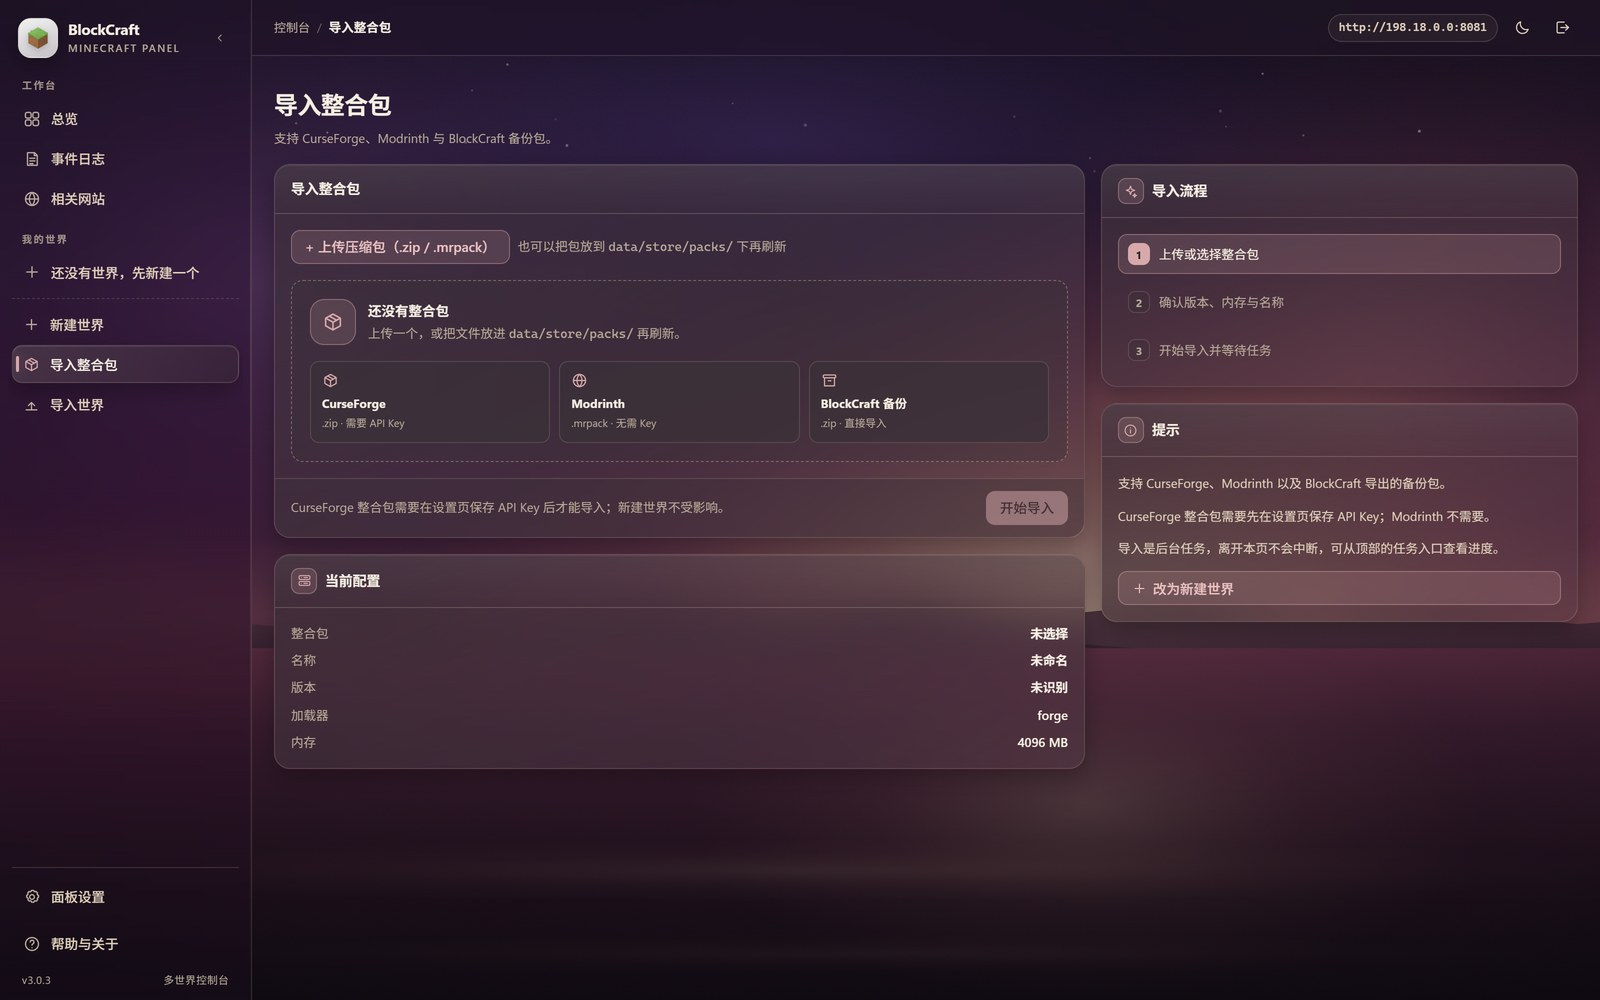
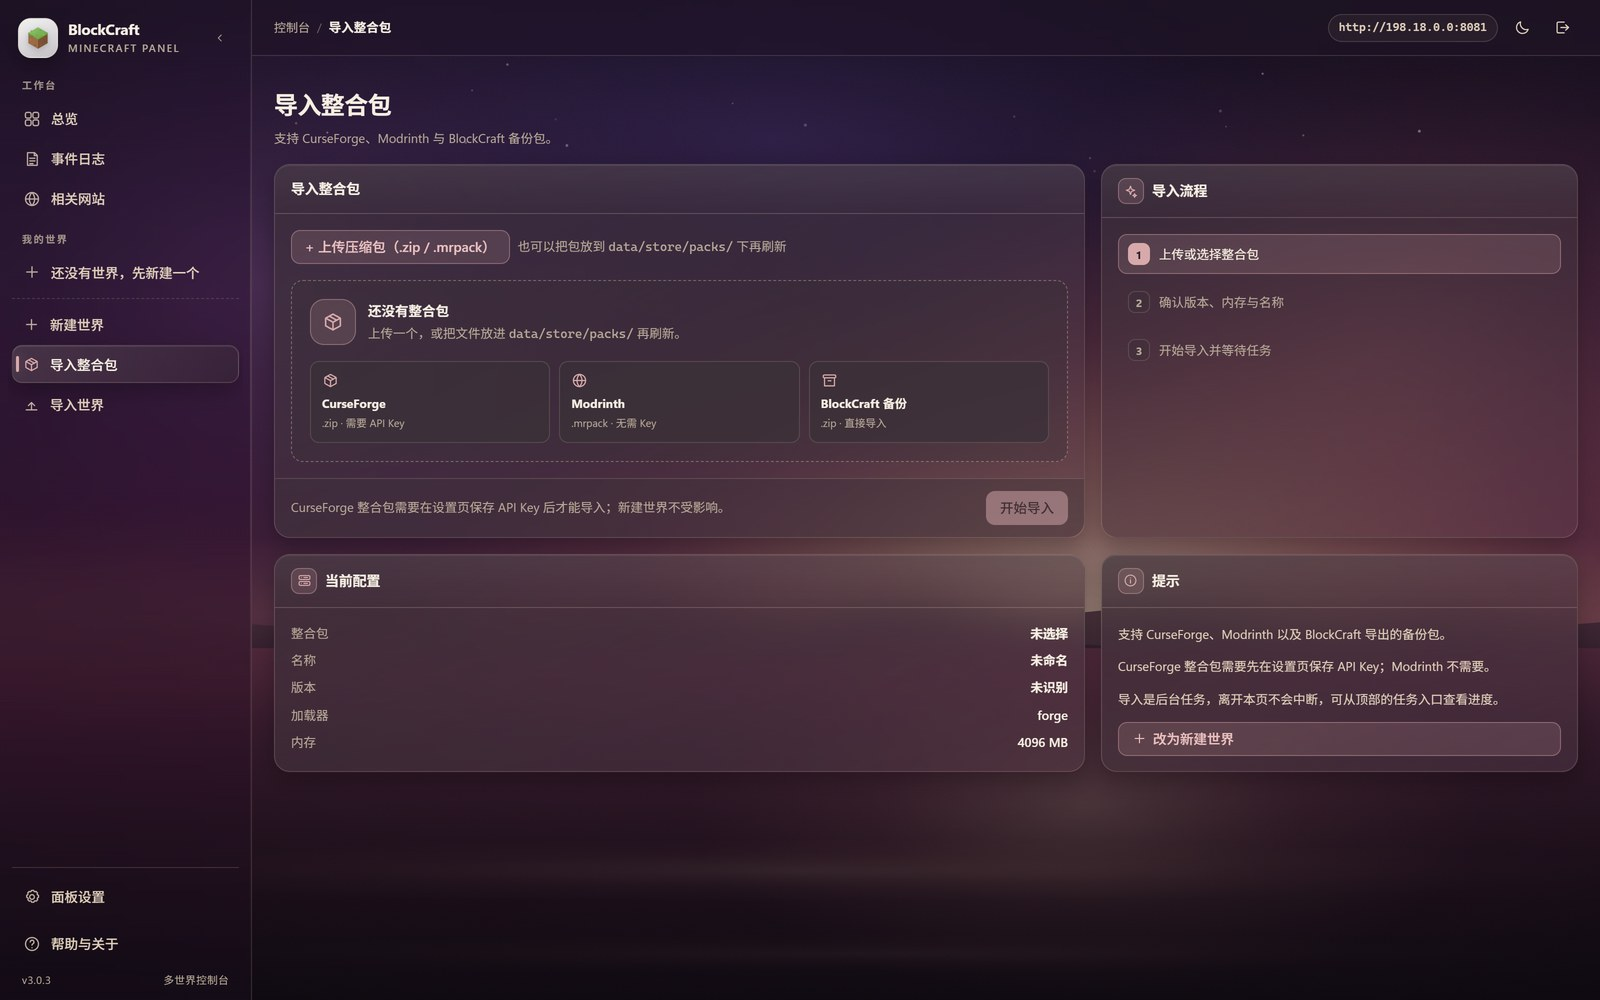
fix(web): align the four new-world cards on shared grid rows
- Use display:contents for the two column wrappers so the form, flow, summary and tips cards share the same grid rows.

- The top row and bottom row now start and end at identical Y coordinates; cards stretch to the taller sibling.

- Keep the single-column fallback below 1100px and refresh the create/import screenshots.

Changed region(s): [[0.6875, 0.465, 1.0, 0.775], [0.6875, 0.403, 0.75, 0.434]]

diff --git a/web/src/pages/Wizard.vue b/web/src/pages/Wizard.vue
@@ -289,7 +289,7 @@ function backgroundJob() {
     <div class="wizard-layout">
       <div class="wizard-main">
         <!-- 新建世界（分步） -->
-        <div v-if="mode === 'new'" class="card">
+        <div v-if="mode === 'new'" class="card wizard-form-card">
       <div class="card-head">
         <h3>新建世界</h3>
         <div class="wizard-steps">
@@ -441,7 +441,7 @@ function backgroundJob() {
     </div>
 
     <!-- 导入整合包 -->
-    <div v-else class="card">
+    <div v-else class="card wizard-form-card">
       <div class="card-head"><h3>导入整合包</h3></div>
       <div class="card-body col gap-4">
         <div class="row gap-2 wrap">
@@ -606,7 +606,7 @@ function backgroundJob() {
       </div>
 
       <aside class="wizard-aside col gap-4">
-        <section class="card aside-card">
+        <section class="card aside-card wizard-flow-card">
           <div class="card-head">
             <h3><span class="head-icon"><Icon name="sparkle" :size="15" /></span>{{ mode === 'new' ? '创建流程' : '导入流程' }}</h3>
           </div>
@@ -641,7 +641,7 @@ function backgroundJob() {
           </div>
         </section>
 
-        <section class="card aside-card">
+        <section class="card aside-card wizard-tips-card">
           <div class="card-head">
             <h3><span class="head-icon"><Icon name="info" :size="15" /></span>提示</h3>
           </div>
@@ -676,12 +676,17 @@ function backgroundJob() {
 .wizard-layout {
   display: grid;
   grid-template-columns: minmax(0, 1.7fr) minmax(280px, 1fr);
-  align-items: start;
+  align-items: stretch;
   gap: var(--sp-4);
 }
-.wizard-main { display: flex; min-width: 0; flex-direction: column; gap: var(--sp-4); }
-.wizard-main > .card { min-width: 0; }
-.wizard-aside { position: sticky; top: calc(var(--topbar-h) + 16px); min-width: 0; }
+/* The wrappers only group the cards semantically; display:contents lets the
+   four cards share the same grid rows, so the 2x2 block edges line up. */
+.wizard-main, .wizard-aside { display: contents; }
+.wizard-form-card { grid-column: 1; grid-row: 1; }
+.wizard-flow-card { grid-column: 2; grid-row: 1; }
+.wizard-summary-card { grid-column: 1; grid-row: 2; }
+.wizard-tips-card { grid-column: 2; grid-row: 2; }
+.wizard-form-card, .wizard-flow-card, .wizard-summary-card, .wizard-tips-card { min-width: 0; }
 .aside-step {
   display: flex;
   align-items: center;
@@ -795,10 +800,10 @@ function backgroundJob() {
 @media (max-width: 620px) { .import-key-warning { align-items: flex-start; flex-direction: column; } }
 @media (max-width: 1100px) {
   .wizard-layout { grid-template-columns: minmax(0, 1fr); }
-  .wizard-aside { position: static; display: grid; grid-template-columns: repeat(2, minmax(0, 1fr)); }
+  .wizard-main, .wizard-aside { display: flex; flex-direction: column; gap: var(--sp-4); }
+  .wizard-form-card, .wizard-flow-card, .wizard-summary-card, .wizard-tips-card { grid-column: auto; grid-row: auto; }
 }
 @media (max-width: 720px) {
-  .wizard-aside { grid-template-columns: minmax(0, 1fr); }
   .import-formats { grid-template-columns: minmax(0, 1fr); }
 }
 </style>
